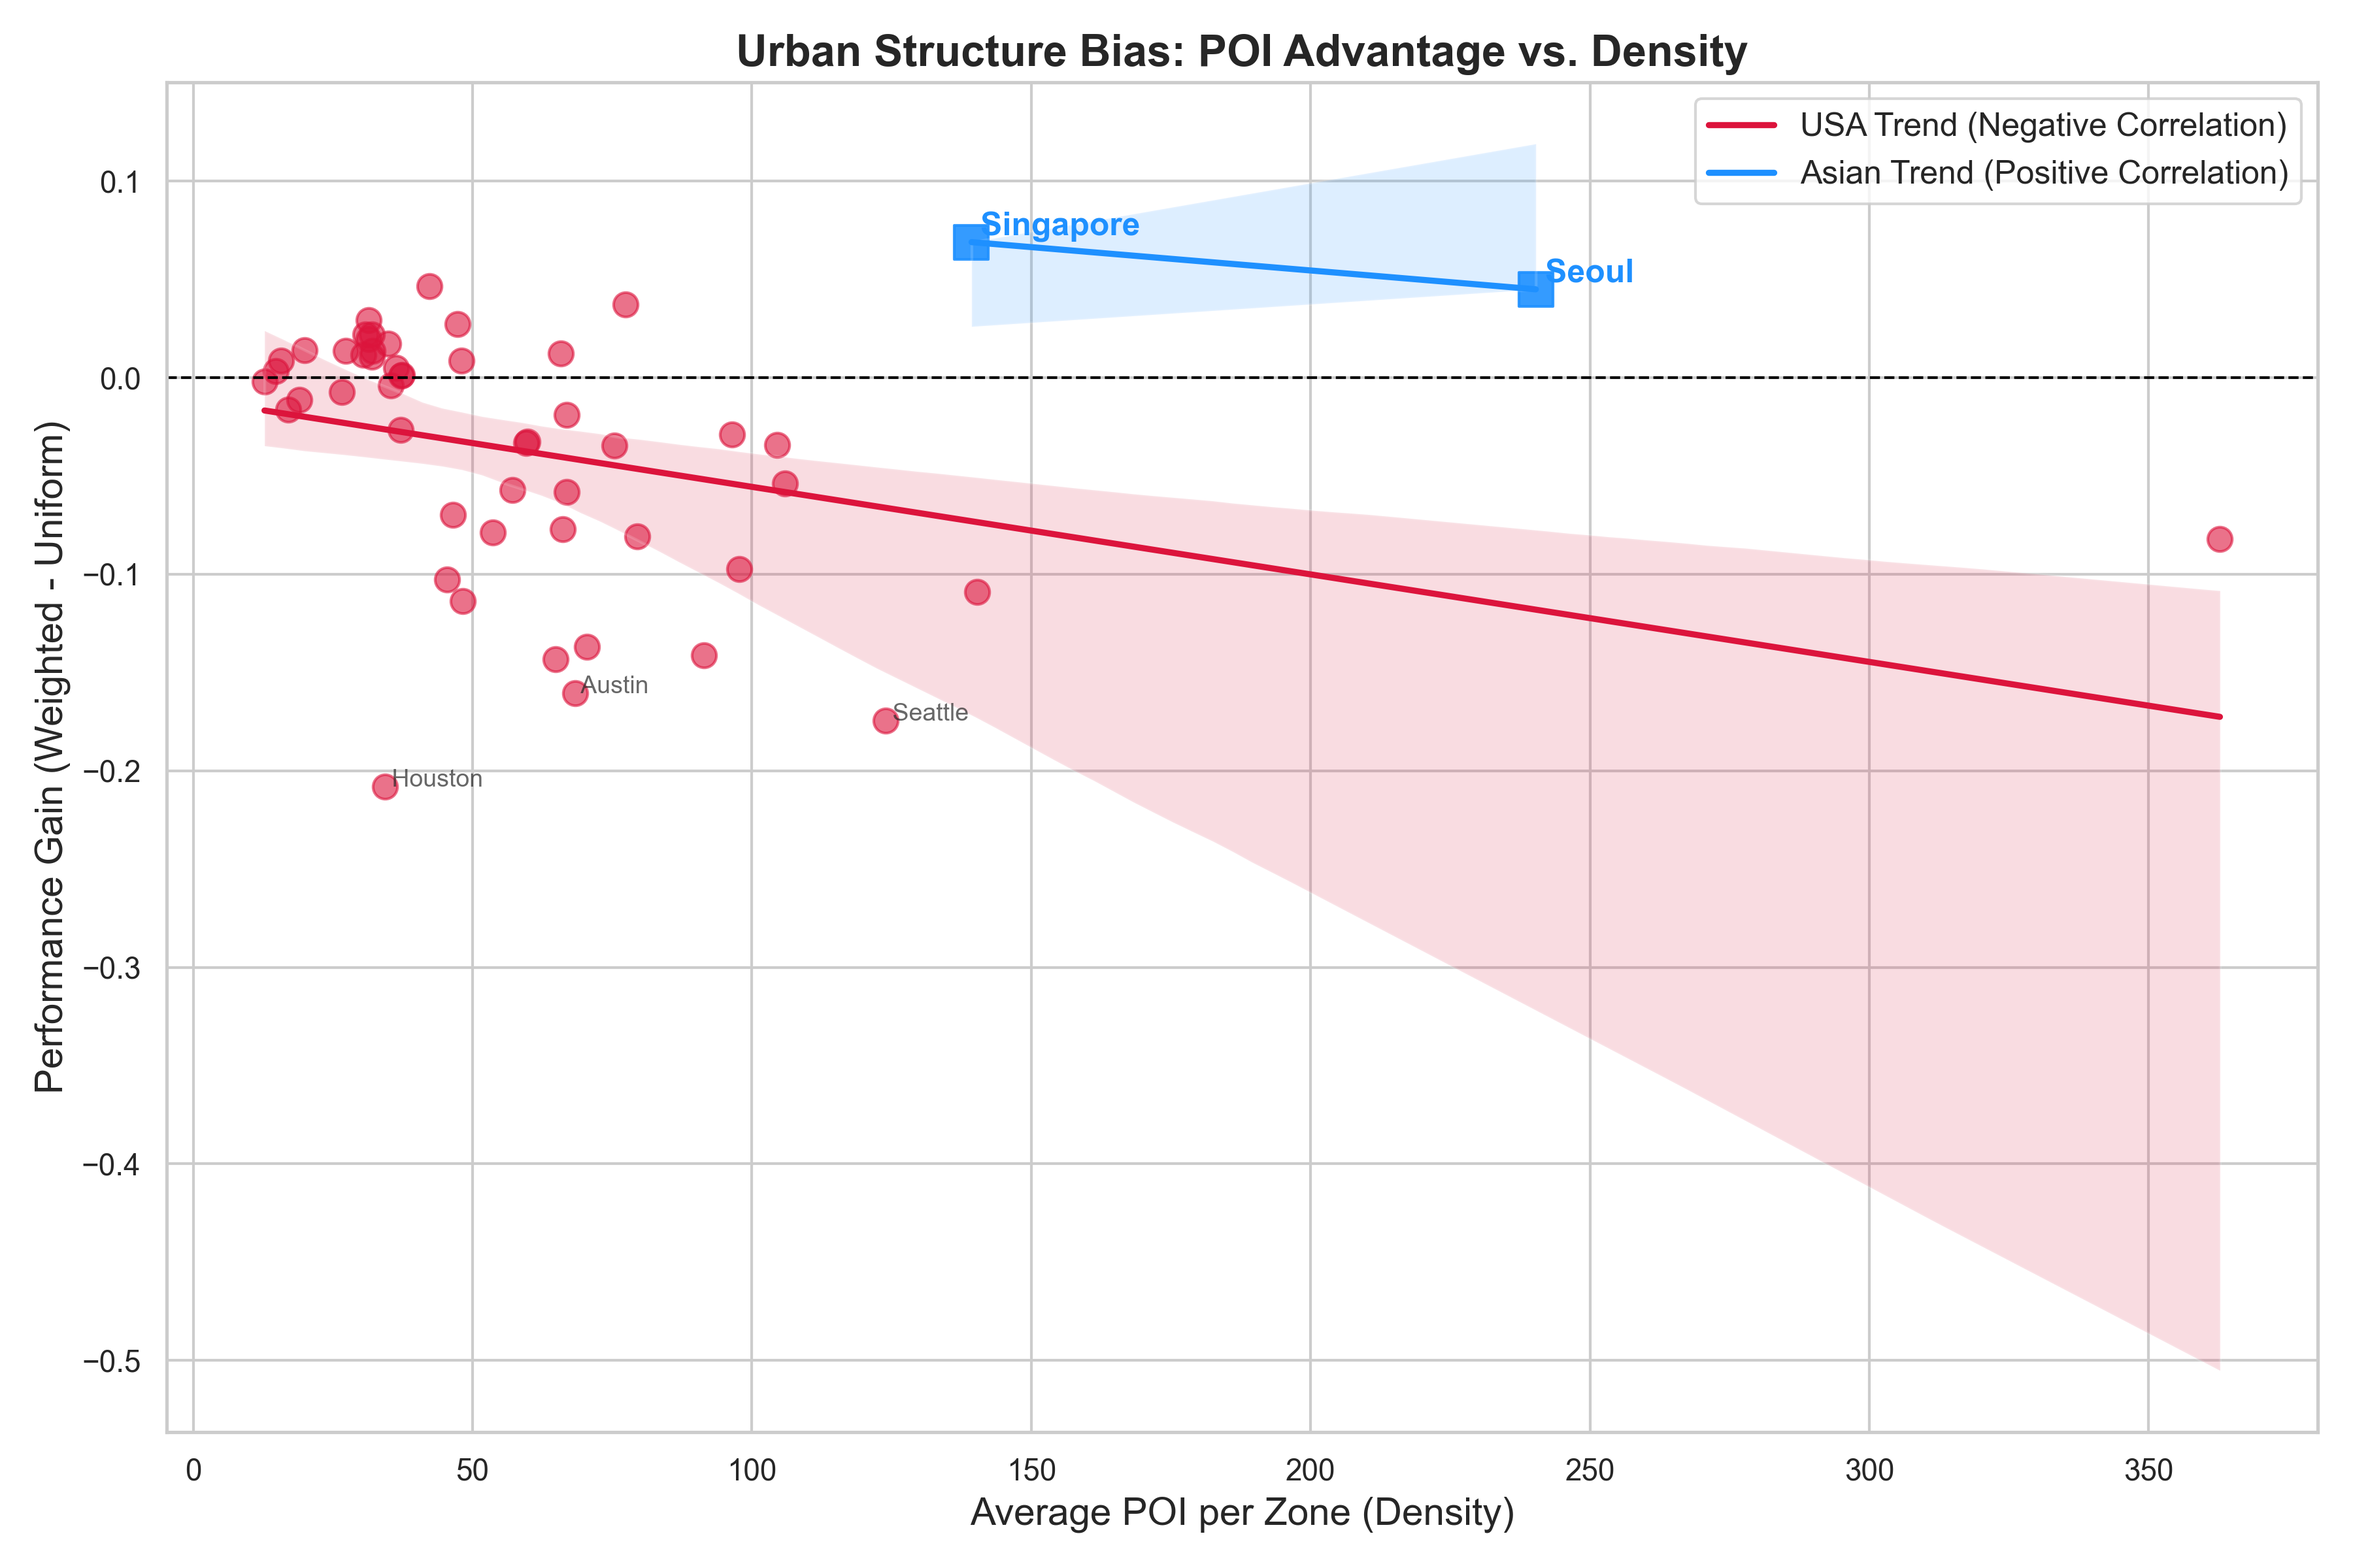
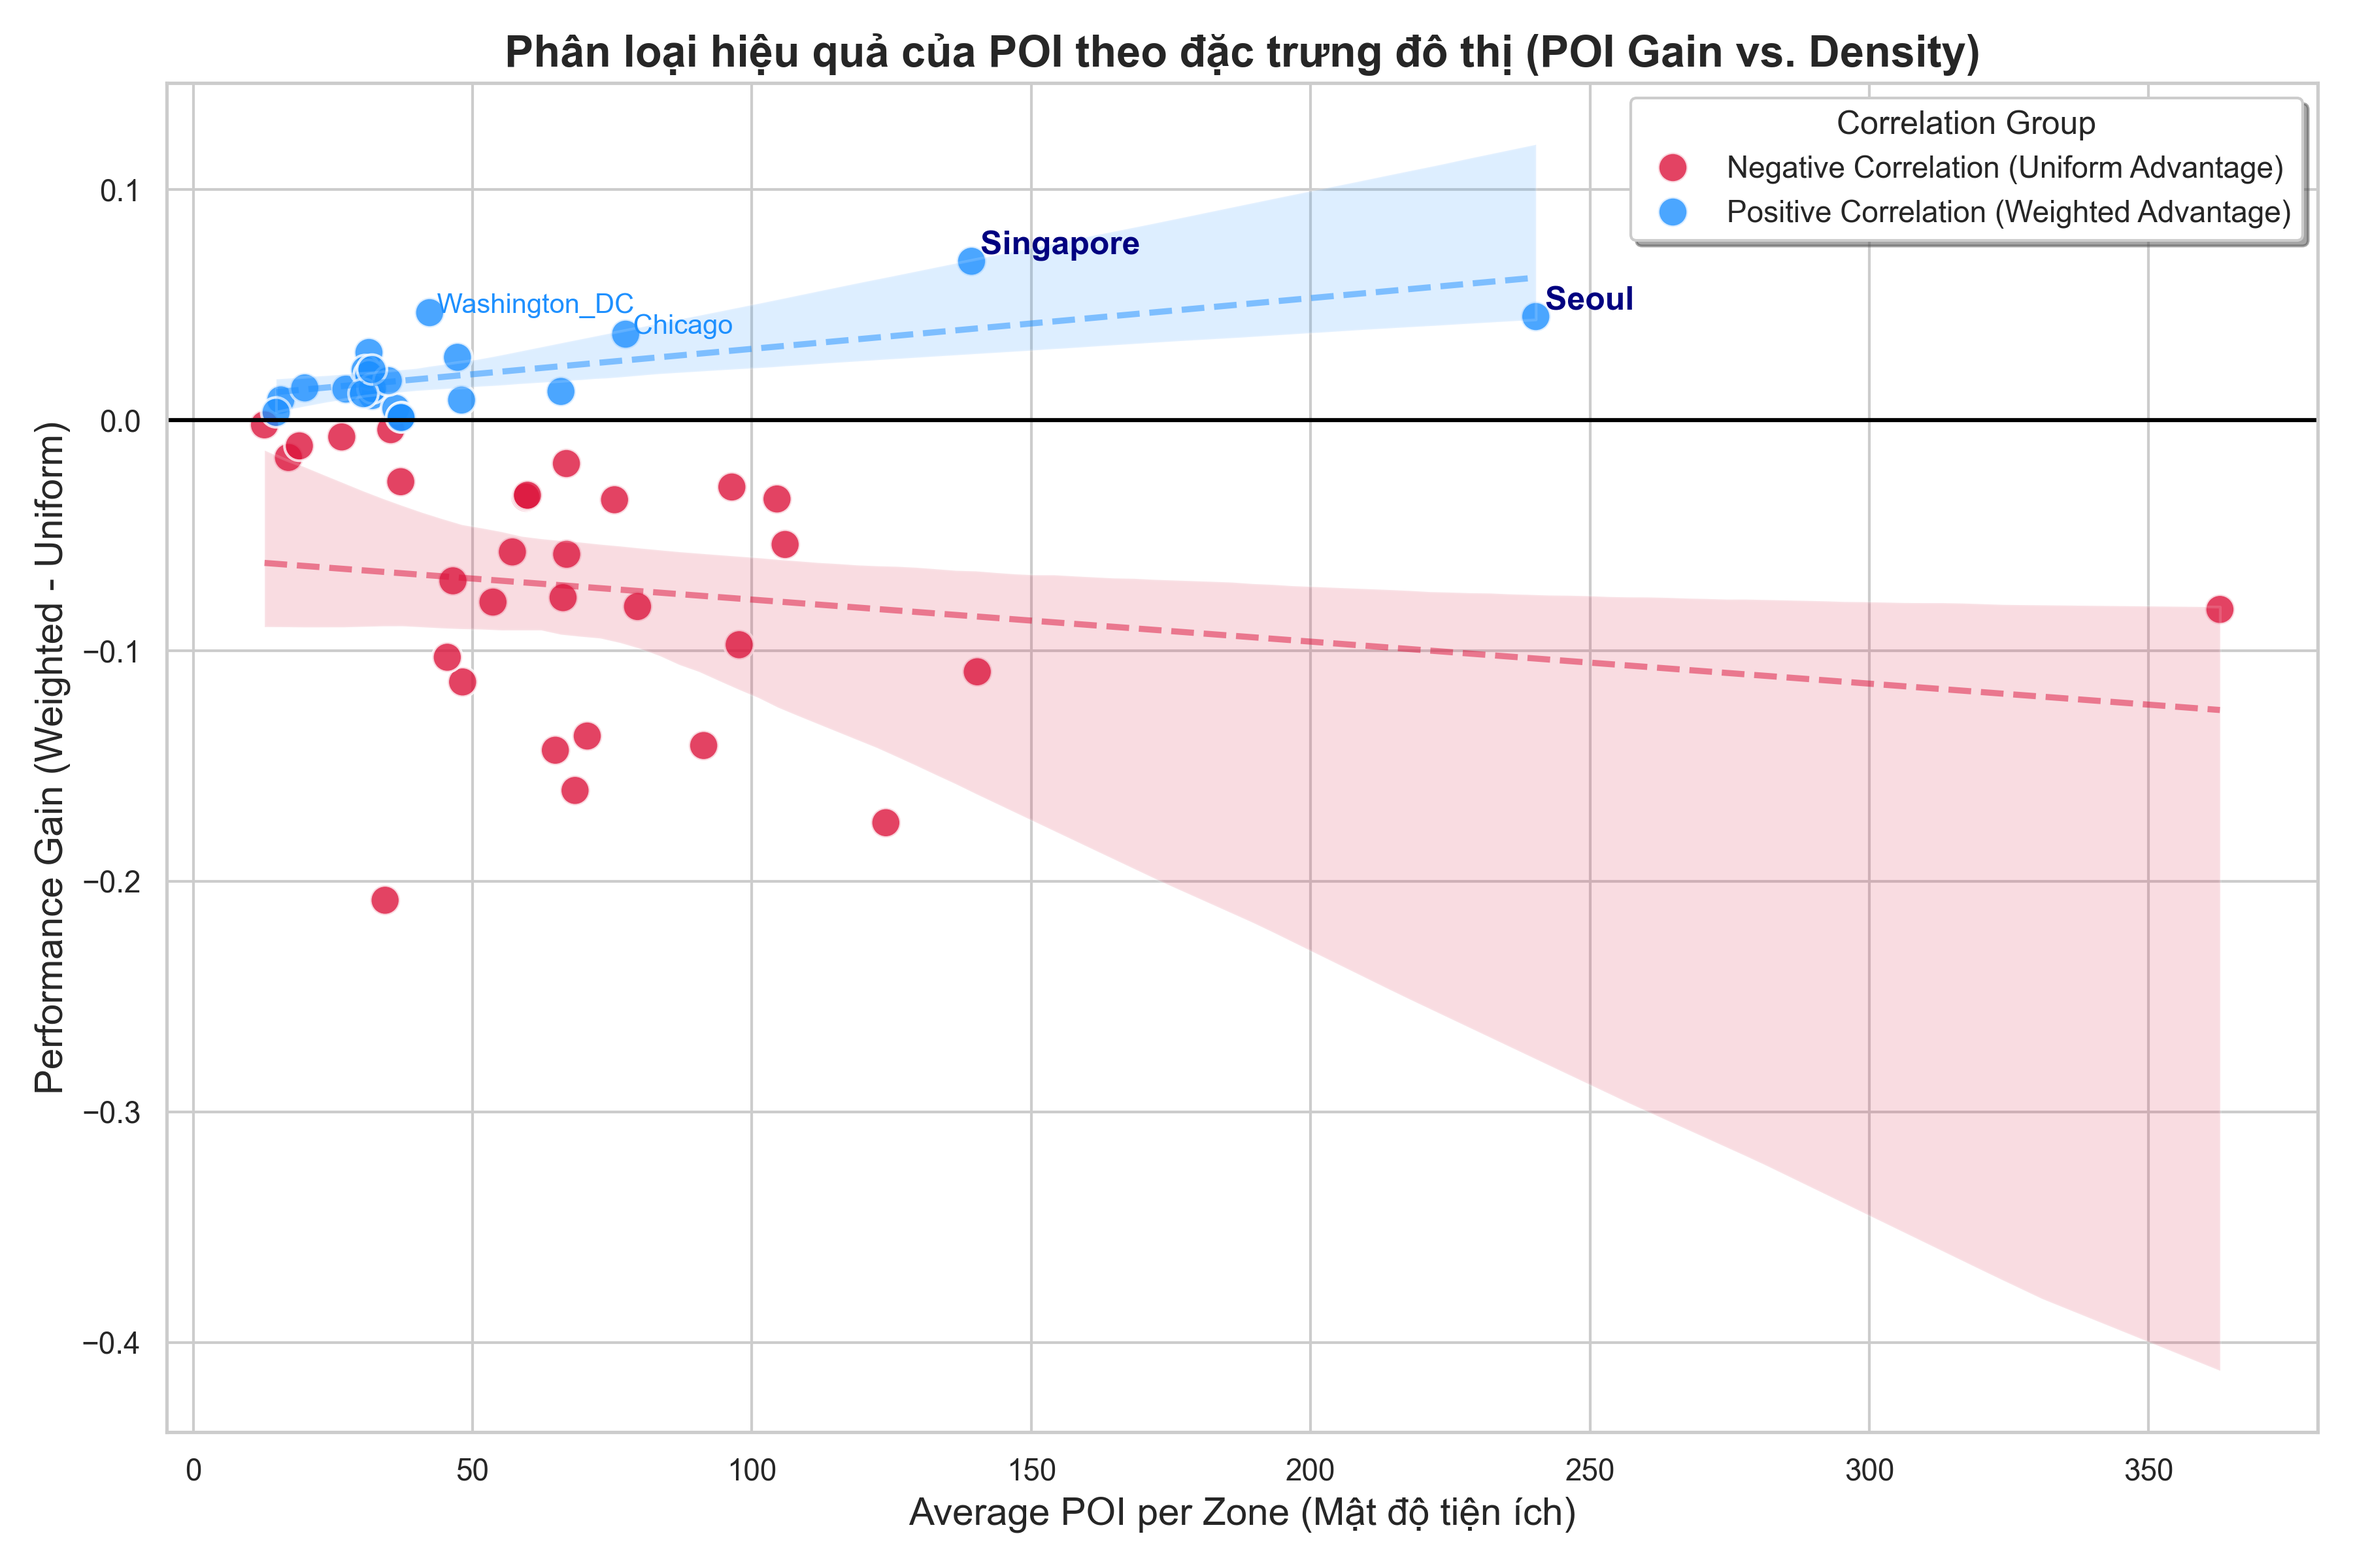
ly giai chua co can cu vung chac

diff --git a/plot_poi_regional_bias.py b/plot_poi_regional_bias.py
@@ -10,11 +10,8 @@ REPORT_FILE = os.path.join(BASE_DIR, "poi_correlation_results.csv")
 
 # Load existing results for US cities
 df_us = pd.read_csv(REPORT_FILE)
-df_us['Region'] = 'USA Cities'
 
-# Add SGP and SU manually (validated results from previous turns)
-# SGP: Uniform 0.576, Weighted 0.645, Gain +0.069, Avg POI 139.3
-# SU: Uniform 0.720, Weighted 0.765, Gain +0.045, Avg POI 240.3
+# Add SGP and SU manually
 asian_data = [
     {'City': 'Singapore', 'Uniform': 0.576, 'Weighted': 0.645, 'POI_Gain': 0.069, 'Avg_POI_per_Zone': 139.3, 'Region': 'Asian Compact Cities'},
     {'City': 'Seoul', 'Uniform': 0.720, 'Weighted': 0.765, 'POI_Gain': 0.045, 'Avg_POI_per_Zone': 240.3, 'Region': 'Asian Compact Cities'}
@@ -24,38 +21,44 @@ df_asian = pd.DataFrame(asian_data)
 # Combine
 df_all = pd.concat([df_us, df_asian], ignore_index=True)
 
+# Define Color based on POI_Gain (Positive = Blue, Negative = Red)
+df_all['Color_Group'] = np.where(df_all['POI_Gain'] > 0, 'Positive Correlation (Weighted Advantage)', 'Negative Correlation (Uniform Advantage)')
+
 # Plotting
 sns.set_theme(style="whitegrid")
 plt.figure(figsize=(12, 8))
 
-# Draw regression lines for each region separately to show slope difference
-palette = {'USA Cities': 'crimson', 'Asian Compact Cities': 'dodgerblue'}
+# Palette matching user request
+palette = {'Positive Correlation (Weighted Advantage)': 'dodgerblue', 
+           'Negative Correlation (Uniform Advantage)': 'crimson'}
 
-sns.regplot(x='Avg_POI_per_Zone', y='POI_Gain', data=df_all[df_all['Region']=='USA Cities'], 
-            scatter_kws={'alpha':0.6, 's':80}, line_kws={'label': 'USA Trend (Negative Correlation)'}, 
-            color='crimson', marker='o')
+# Scatter plot with colors based on correlation direction
+sns.scatterplot(x='Avg_POI_per_Zone', y='POI_Gain', hue='Color_Group', data=df_all, 
+                palette=palette, s=120, alpha=0.8, edgecolor='w', linewidth=1)
 
-sns.regplot(x='Avg_POI_per_Zone', y='POI_Gain', data=df_all[df_all['Region']=='Asian Compact Cities'], 
-            scatter_kws={'alpha':0.9, 's':150}, line_kws={'label': 'Asian Trend (Positive Correlation)'}, 
-            color='dodgerblue', marker='s')
+# Regression lines to show the trend
+sns.regplot(x='Avg_POI_per_Zone', y='POI_Gain', data=df_all[df_all['POI_Gain'] > 0], 
+            scatter=False, color='dodgerblue', line_kws={'linestyle': '--', 'alpha': 0.5})
+sns.regplot(x='Avg_POI_per_Zone', y='POI_Gain', data=df_all[df_all['POI_Gain'] <= 0], 
+            scatter=False, color='crimson', line_kws={'linestyle': '--', 'alpha': 0.5})
 
 # Annotations for SGP and SU
-plt.text(139.3, 0.069, ' Singapore', fontsize=12, fontweight='bold', color='dodgerblue', va='bottom')
-plt.text(240.3, 0.045, ' Seoul', fontsize=12, fontweight='bold', color='dodgerblue', va='bottom')
+plt.text(139.3, 0.069, ' Singapore', fontsize=12, fontweight='bold', color='navy', va='bottom')
+plt.text(240.3, 0.045, ' Seoul', fontsize=12, fontweight='bold', color='navy', va='bottom')
 
-# Annotate some US outliers
-outliers = df_us.nsmallest(3, 'POI_Gain')
-for _, row in outliers.iterrows():
-    plt.text(row['Avg_POI_per_Zone'], row['POI_Gain'], f" {row['City']}", fontsize=9, alpha=0.7)
+# Annotate key US cities with positive gain
+pos_us = df_us[df_us['POI_Gain'] > 0.03].sort_values('Avg_POI_per_Zone')
+for _, row in pos_us.iterrows():
+    plt.text(row['Avg_POI_per_Zone'], row['POI_Gain'], f" {row['City']}", fontsize=10, color='dodgerblue')
 
-plt.axhline(0, color='black', linewidth=1, linestyle='--')
-plt.title('Urban Structure Bias: POI Advantage vs. Density', fontsize=16, fontweight='bold')
-plt.xlabel('Average POI per Zone (Density)', fontsize=14)
+plt.axhline(0, color='black', linewidth=1.5, linestyle='-')
+plt.title('Phân loại hiệu quả của POI theo đặc trưng đô thị (POI Gain vs. Density)', fontsize=16, fontweight='bold')
+plt.xlabel('Average POI per Zone (Mật độ tiện ích)', fontsize=14)
 plt.ylabel('Performance Gain (Weighted - Uniform)', fontsize=14)
-plt.legend(fontsize=12, frameon=True, loc='upper right')
+plt.legend(title='Correlation Group', fontsize=11, title_fontsize=12, frameon=True, shadow=True)
 
 plt.tight_layout()
 plt.savefig('poi_regional_bias.png', dpi=300)
 plt.close()
 
-print("✅ Regional bias plot generated as poi_regional_bias.png")
+print("✅ Updated plot with positive correlation points in blue.")

diff --git a/Proposal.md b/Proposal.md
@@ -331,7 +331,10 @@ Một trong những phát hiện quan trọng nhất là sự khác biệt về 
 
 **Nhận xét và thảo luận**:
 - **Đô thị nén (Singapore, Seoul)**: Tại các thành phố này, dữ liệu POI đóng vai trò là "lực hấp dẫn" cực kỳ hiệu quả. Do đặc thù quy hoạch đa chức năng (mixed-use) và mật độ tiện ích dày đặc, hành vi di chuyển của người dân thường gắn liền với việc tiêu dùng dịch vụ và tiện ích công cộng. Vì vậy, mật độ POI càng cao, khả năng dự báo của mô hình **Weighted** càng tăng (tương quan dương).
-- **Đô thị dàn trải (USA Cities)**: Ngược lại, tại các thành phố Hoa Kỳ, việc sử dụng POI làm trọng số phân bộ di chuyển thường gây ra "nhiễu" dữ liệu (tương quan âm). Điều này có thể giải thích bởi cấu trúc quy hoạch phân vùng (zoning) nghiêm ngặt, nơi các khu vực làm việc (employment centers) thường tách biệt hoàn toàn với các khu vực tiện ích thương mại (POIs). Trong bối cảnh này, việc phân bổ dòng chảy di chuyển dựa trên POI (ví dụ: nhà hàng, cửa hàng) sẽ làm sai lệch các luồng di chuyển chủ đạo là từ nhà đến nơi làm việc.
+- **Đô thị dàn trải (USA Cities)**: Thống kê trên 50 thành phố Hoa Kỳ cho thấy một sự phân hóa rõ rệt về hiệu quả của POI:
+    * **20/50 thành phố (40%)**: Ghi nhận mức tăng trưởng dương (**Positive Gain**). Đây thường là các đô thị có trung tâm hành chính-thương mại tập trung mạnh (như Washington DC, Chicago).
+    * **30/50 thành phố (60%)**: Ghi nhận mức tăng trưởng âm (**Negative Gain**). Tại các đô thị này, việc sử dụng POI làm trọng số gây ra "nhiễu" dữ liệu, khiến mô hình Uniform chính xác hơn. 
+
 - **Tính ổn định của Quy luật Shell**: Phát hiện này khẳng định rằng quy luật Shell (dựa trên khoảng cách rời rạc) là khung xương vững chắc cho mọi đô thị, trong khi việc tích hợp thêm các biến số như POI cần được cân nhắc dựa trên đặc thù quy hoạch của từng khu vực.
 
 ## 7.2 Tính bão hòa thông tin và sự ổn định
@@ -358,3 +361,5 @@ Nghiên cứu đã thành công trong việc xây dựng và kiểm chứng khun
 12. F. Simini, M. C. González, A. Maritan, and A.-L. Barabási, "A universal model for mobility and migration patterns," Nature, vol. 484, no. 7392, pp. 96–100, 2012
 13. X. Liang, J. Zhao, L. Dong, and K. Xu, "Unraveling the origin of exponential law in intra-urban human mobility," Sci. Rep., vol. 3, p. 2983, 2013
 14. A. Noulas, S. Scellato, R. Lambiotte, M. Pontil, and C. Mascolo, "A tale of many cities: Universal patterns in human urban mobility," PLoS ONE, vol. 7, p. e37027, 2012
+15. A. Shertzer, T. Twinam, and R. P. Walsh, "Zoning and the Economic Geography of Cities," Journal of Urban Economics, vol. 91, pp. 54-71, 2016
+16. R. Ewing and R. Cervero, "Travel and the Built Environment: A Meta-Analysis," Journal of the American Planning Association, vol. 76, no. 3, pp. 265-294, 2010
